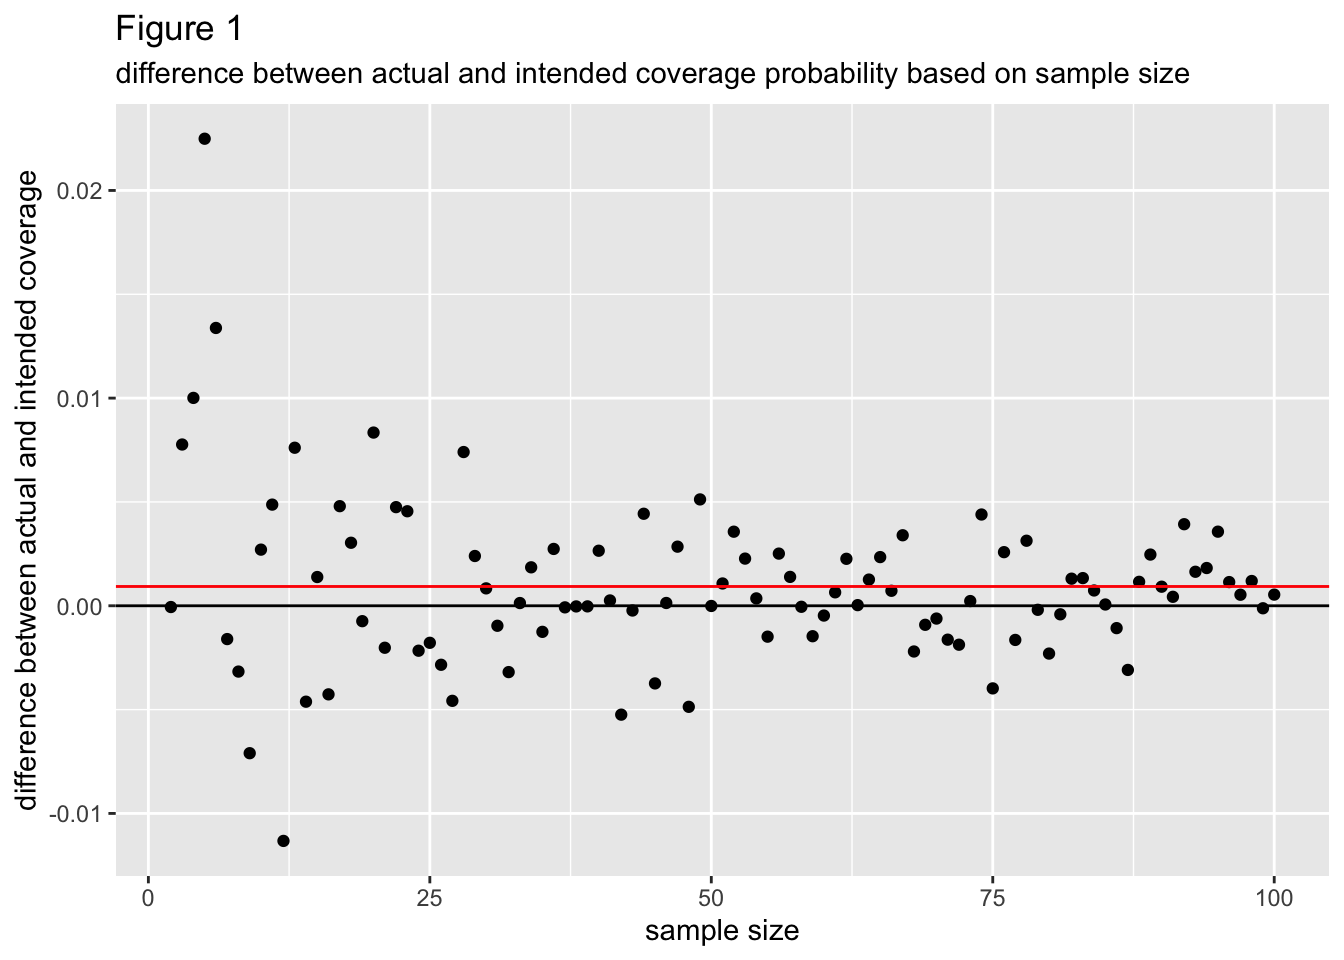
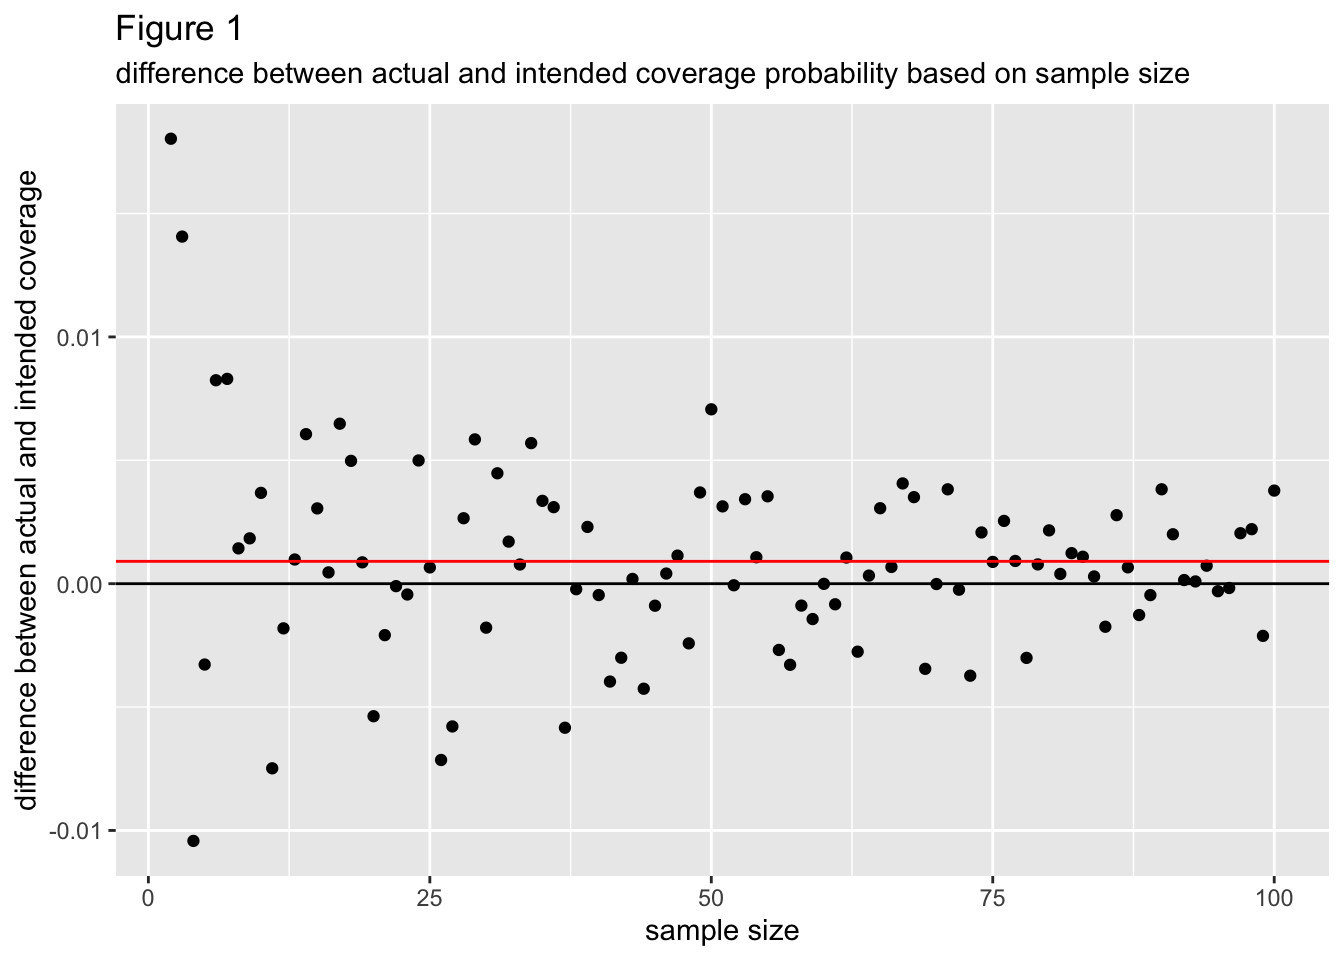
website update.

diff --git a/docs/Beta_Simulation.html b/docs/Beta_Simulation.html
@@ -252,7 +252,7 @@ window.Quarto = {
 <span id="cb2-10"><a href="#cb2-10" aria-hidden="true" tabindex="-1"></a>  <span class="fu">return</span>(<span class="fu">data.frame</span>(<span class="at">PI_percentage =</span> coverage_prob, <span class="at">lower =</span> lower_bound, <span class="at">upper =</span> upper_bound))</span>
 <span id="cb2-11"><a href="#cb2-11" aria-hidden="true" tabindex="-1"></a>}</span></code><button title="Copy to Clipboard" class="code-copy-button"><i class="bi"></i></button></pre></div>
 </div>
-<p>PI is a function that takes a vector of numeric data and produces a high-density prediction interval intended to cover the proportion of said data’s parent distribution, which is given by coverage_prob. This prediction interval is created under the assumption that the data is normally distributed (although we know it is not). Let <span class="math inline">\(s\)</span> be the sample standard deviation of our data, <span class="math inline">\(n\)</span> be the size of our sample, <span class="math inline">\(\hat{p}\)</span> be the mean of our data, and <span class="math inline">\(t_{p,n-1}\)</span> be the quantile value associated with the highest density coverage probability <span class="math inline">\(p\)</span> in a <span class="math inline">\(t\)</span> distribution with <span class="math inline">\(n-1\)</span> degrees of freedom. If we assume that our data is normal, then the highest density prediction interval with coverage probability <span class="math inline">\(p\)</span> is best predicted as</p>
+<p>PI is a function that takes a vector of numeric data and produces a high-density prediction interval intended to cover the proportion of said data’s parent distribution given by coverage_prob. This prediction interval is created under the assumption that the data is normally distributed (although we know it is not). Let <span class="math inline">\(s\)</span> be the sample standard deviation of our data, <span class="math inline">\(n\)</span> be the size of our sample, <span class="math inline">\(\hat{p}\)</span> be the mean of our data, and <span class="math inline">\(t_{p,n-1}\)</span> be the quantile value associated with the highest density coverage probability <span class="math inline">\(p\)</span> in a <span class="math inline">\(t\)</span> distribution with <span class="math inline">\(n-1\)</span> degrees of freedom. If we assume that our data is normal, then the highest density prediction interval with coverage probability <span class="math inline">\(p\)</span> is best predicted as</p>
 <p><span class="math display">\[\hat{p} \pm t_{p,n-1}*s*\sqrt{1+\frac{1}{n}}\]</span> PI uses this formula to generate the bounds of its prediction interval.</p>
 <div class="cell">
 <div class="sourceCode cell-code" id="cb3"><pre class="sourceCode r code-with-copy"><code class="sourceCode r"><span id="cb3-1"><a href="#cb3-1" aria-hidden="true" tabindex="-1"></a>one_beta_simulation <span class="ot">&lt;-</span> <span class="cf">function</span>(n, alpha, beta, pi_prop){</span>
@@ -295,17 +295,17 @@ window.Quarto = {
 <span id="cb6-2"><a href="#cb6-2" aria-hidden="true" tabindex="-1"></a><span class="fu">map</span>(rows, \(i) beta_df[i,]) <span class="sc">%&gt;%</span></span>
 <span id="cb6-3"><a href="#cb6-3" aria-hidden="true" tabindex="-1"></a>  <span class="fu">list_rbind</span>()</span></code><button title="Copy to Clipboard" class="code-copy-button"><i class="bi"></i></button></pre></div>
 <div class="cell-output cell-output-stdout">
-<pre><code>    n PI_percentage     lower     upper     cover alpha beta mean_in_interval
-1  18          0.95 0.4343473 0.5544763 0.9717662   173  173             TRUE
-2   9          0.95 0.4212138 0.5717733 0.9954583   179  179             TRUE
-3  88          0.95 0.3541909 0.6453527 0.9316644    19   19             TRUE
-4  51          0.95 0.4336922 0.5685664 0.9847938   161  161             TRUE
-5  11          0.95 0.3632900 0.6351648 0.9991682    73   73             TRUE
-6  76          0.95 0.4028775 0.6059292 0.9351621    41   41             TRUE
-7  77          0.95 0.4532853 0.5526386 0.9342461   173  173             TRUE
-8  77          0.95 0.2927957 0.7305265 0.9662839    11   11             TRUE
-9   5          0.95 0.1574760 0.9067672 0.9999711    13   13             TRUE
-10 42          0.95 0.4386275 0.5582425 0.9080922    99   99             TRUE</code></pre>
+<pre><code>     n PI_percentage     lower     upper     cover alpha beta mean_in_interval
+1   18          0.95 0.3330108 0.6868096 0.9337133    13   13             TRUE
+2   64          0.95 0.4440284 0.5614393 0.9677109   167  167             TRUE
+3   39          0.95 0.4246678 0.5761443 0.9753457   109  109             TRUE
+4   54          0.95 0.4467233 0.5588992 0.9613860   171  171             TRUE
+5   44          0.95 0.4299380 0.5519605 0.9575632   151  151             TRUE
+6   89          0.95 0.4171579 0.6032781 0.9651362    67   67             TRUE
+7   87          0.95 0.4428925 0.5446572 0.9471621   191  191             TRUE
+8   27          0.95 0.4496611 0.5515554 0.8845403   119  119             TRUE
+9  100          0.95 0.3737001 0.6294515 0.9585572    31   31             TRUE
+10  80          0.95 0.4064495 0.5920598 0.9779207    75   75             TRUE</code></pre>
 </div>
 </div>
 <p>This is a random sample of rows from the actual dataset, which has 48902 rows and 8 columns. Each row corresponds to a simulated random sample of size n from a beta distribution with parameters alpha and beta. For each random sample, a normal prediction interval was generated with bounds “lower” and “upper”. “PI_percentage” refers to the intended coverage probability and “cover” refers to the actual coverage probability of said prediction interval over the beta distribution the data was generated from. “mean_in_interval” is a binary variable that states if the prediction interval covered the mean of the distribution.</p>
@@ -336,7 +336,7 @@ window.Quarto = {
 </div>
 </div>
 </div>
-<p>Figure 1 graphs the mean difference between the actual coverage probability and intended coverage probability (calculated as: actual coverage probability - intended coverage probability) per each sample size from 2 to 10000. A negative mean difference indicates the actual coverage probability tended to be less than the intended coverage probability, which is undesirable, while a positive mean difference indicates the actual cover probability tended to be more than the intended coverage probability. The mean difference between actual and intended coverage probability seems to converge to a value a little bit above 0 as the sample size increases, indicating that actual coverage probability tends to be more than the intended coverage and that this is more so as sample size increases.</p>
+<p>Figure 1 graphs the mean difference between the actual coverage probability and intended coverage probability (calculated as: actual coverage probability - intended coverage probability) per each sample size from 2 to 100. A negative mean difference indicates the actual coverage probability tended to be less than the intended coverage probability, which is undesirable, while a positive mean difference indicates the actual cover probability tended to be more than the intended coverage probability. The mean difference between actual and intended coverage probability seems to converge to a value a little bit above 0 as the sample size increases, indicating that actual coverage probability tends to be more than the intended coverage and that this is more so as sample size increases.</p>
 <p>For small sample sizes the mean difference between actual and intended coverage probability has a lot more variance around 0 than it does for larger sample sizes, which can be attributed to sampling variability. Overall, absolute differences in actual coverage probability and intended coverage probability don’t appear to extend beyond .02, indicating normal prediction intervals tend to have good coverage probability for symmetric, beta distributed data.</p>
 <div class="cell">
 <div class="sourceCode cell-code" id="cb9"><pre class="sourceCode r code-with-copy"><code class="sourceCode r"><span id="cb9-1"><a href="#cb9-1" aria-hidden="true" tabindex="-1"></a>n_means_df <span class="ot">&lt;-</span> beta_df <span class="sc">%&gt;%</span></span>
@@ -363,7 +363,7 @@ window.Quarto = {
 </div>
 <p>Figure 2 plots the proportion of prediction intervals that cover mu = .5 per each sample size from 2 to 30. These points converge to 1 at a sample size of around 4, meaning for sample sizes of 4 or greater it is probable that all random samples with those samples sizes will produce normal-prediction intervals that cover the mean of the beta distribution said data originated from.</p>
 <div class="cell">
-<div class="sourceCode cell-code" id="cb10"><pre class="sourceCode r code-with-copy"><code class="sourceCode r"><span id="cb10-1"><a href="#cb10-1" aria-hidden="true" tabindex="-1"></a>ns_of_interest <span class="ot">&lt;-</span> <span class="fu">c</span>(<span class="dv">5</span>, <span class="dv">10</span>, <span class="dv">30</span>, <span class="dv">50</span>, <span class="dv">100</span>, <span class="dv">500</span>)</span>
+<div class="sourceCode cell-code" id="cb10"><pre class="sourceCode r code-with-copy"><code class="sourceCode r"><span id="cb10-1"><a href="#cb10-1" aria-hidden="true" tabindex="-1"></a>ns_of_interest <span class="ot">&lt;-</span> <span class="fu">c</span>(<span class="dv">5</span>, <span class="dv">10</span>, <span class="dv">30</span>, <span class="dv">50</span>, <span class="dv">100</span>)</span>
 <span id="cb10-2"><a href="#cb10-2" aria-hidden="true" tabindex="-1"></a>beta_df_2 <span class="ot">&lt;-</span> <span class="fu">filter</span>(beta_df,n <span class="sc">%in%</span> ns_of_interest) <span class="sc">%&gt;%</span></span>
 <span id="cb10-3"><a href="#cb10-3" aria-hidden="true" tabindex="-1"></a>  <span class="fu">mutate</span>(<span class="at">sample_size =</span> <span class="fu">as.factor</span>(n))</span>
 <span id="cb10-4"><a href="#cb10-4" aria-hidden="true" tabindex="-1"></a><span class="fu">ggplot</span>(beta_df_2, <span class="fu">aes</span>(<span class="at">x =</span> alpha, <span class="at">y =</span> cover, <span class="at">color =</span> sample_size)) <span class="sc">+</span></span>

diff --git a/docs/Netflix_Analysis.html b/docs/Netflix_Analysis.html
@@ -293,7 +293,7 @@ pre > code.sourceCode > span > a:first-child::before { text-decoration: underlin
 <section id="netflix-horror-movies" class="level2">
 <h2 class="anchored" data-anchor-id="netflix-horror-movies">Netflix Horror Movies</h2>
 <p>In this analysis of Netflix horror movies, I look at all movies with horror listed as a genre and see what other genres are also listed for said movies. I then create a bar plot comparing the number of other genres listed among Netflix horror movies.</p>
-<p>First I filter for movies with horror listed as one of its genres and clean the variable listing movie genres so that it only includes genres that aren’t horror. This is all saved in the “horror_subgenre” object.</p>
+<p>First, I filter for movies with horror listed as one of its genres and clean the variable listing movie genres so that it only includes genres that aren’t horror. This is all saved in the “horror_subgenre” object.</p>
 <div class="cell">
 <div class="sourceCode cell-code" id="cb3"><pre class="sourceCode r code-with-copy"><code class="sourceCode r"><span id="cb3-1"><a href="#cb3-1" aria-hidden="true" tabindex="-1"></a>horror_subgenre <span class="ot">&lt;-</span> netflix <span class="sc">%&gt;%</span></span>
 <span id="cb3-2"><a href="#cb3-2" aria-hidden="true" tabindex="-1"></a>  <span class="fu">filter</span>(<span class="fu">str_detect</span>(listed_in, <span class="st">"Horror"</span>), type <span class="sc">==</span> <span class="st">"Movie"</span>) <span class="sc">%&gt;%</span></span>
@@ -307,7 +307,7 @@ pre > code.sourceCode > span > a:first-child::before { text-decoration: underlin
 <span id="cb3-10"><a href="#cb3-10" aria-hidden="true" tabindex="-1"></a>  <span class="fu">arrange</span>(<span class="fu">desc</span>(num)) <span class="sc">%&gt;%</span></span>
 <span id="cb3-11"><a href="#cb3-11" aria-hidden="true" tabindex="-1"></a>  <span class="fu">mutate</span>(<span class="at">listed_in =</span> <span class="fu">str_remove</span>(listed_in, <span class="st">"Horror"</span>))</span></code><button title="Copy to Clipboard" class="code-copy-button"><i class="bi"></i></button></pre></div>
 </div>
-<p>Then I count the number of movies within “horror_subgenre” that list a specific secondary genre, with the secondary genres I consider being the following: thriller, comedy, romance, action/adventure, science fiction and fantasy, cult, documentary, and none. None means that the movie only has horror as its genre.</p>
+<p>Then, I count the number of movies within “horror_subgenre” that list a specific secondary genre, with the secondary genres I consider being the following: thriller, comedy, romance, action/adventure, science fiction and fantasy, cult, documentary, and none. None means that the movie only has horror as its genre.</p>
 <div class="cell">
 <div class="sourceCode cell-code" id="cb4"><pre class="sourceCode r code-with-copy"><code class="sourceCode r"><span id="cb4-1"><a href="#cb4-1" aria-hidden="true" tabindex="-1"></a>num_thrillers <span class="ot">&lt;-</span> horror_subgenre <span class="sc">%&gt;%</span></span>
 <span id="cb4-2"><a href="#cb4-2" aria-hidden="true" tabindex="-1"></a>  <span class="fu">group_by</span>(<span class="fu">str_detect</span>(listed_in,<span class="st">"Thrillers"</span>)) <span class="sc">%&gt;%</span></span>
